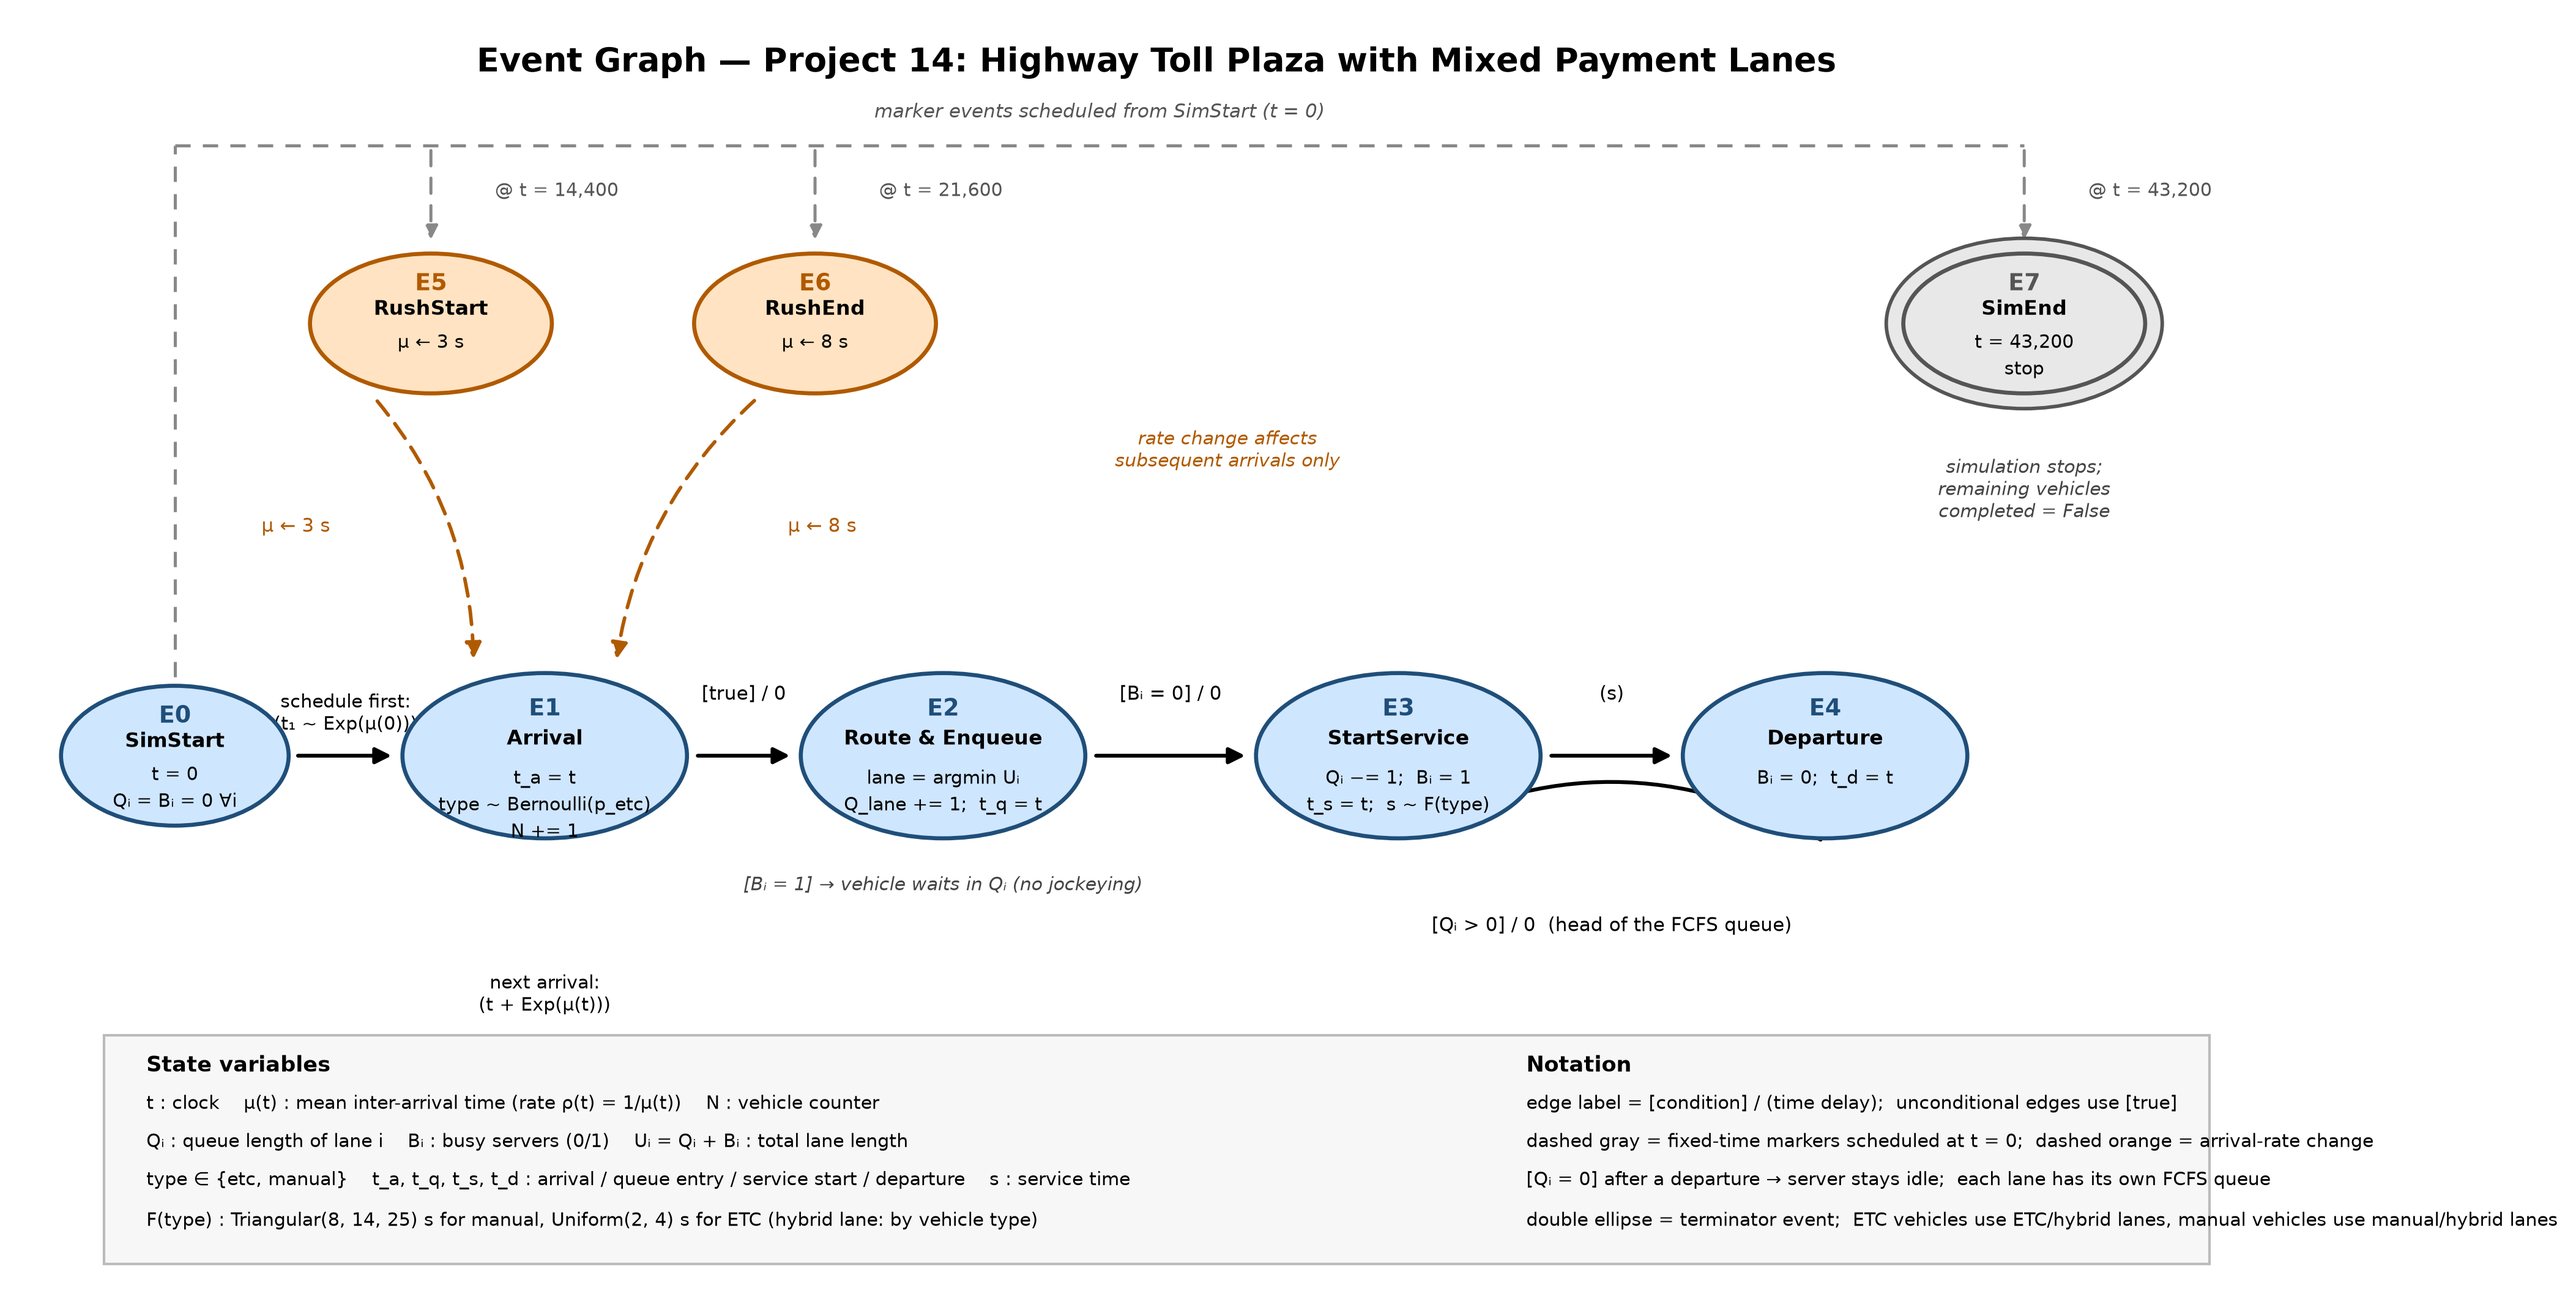
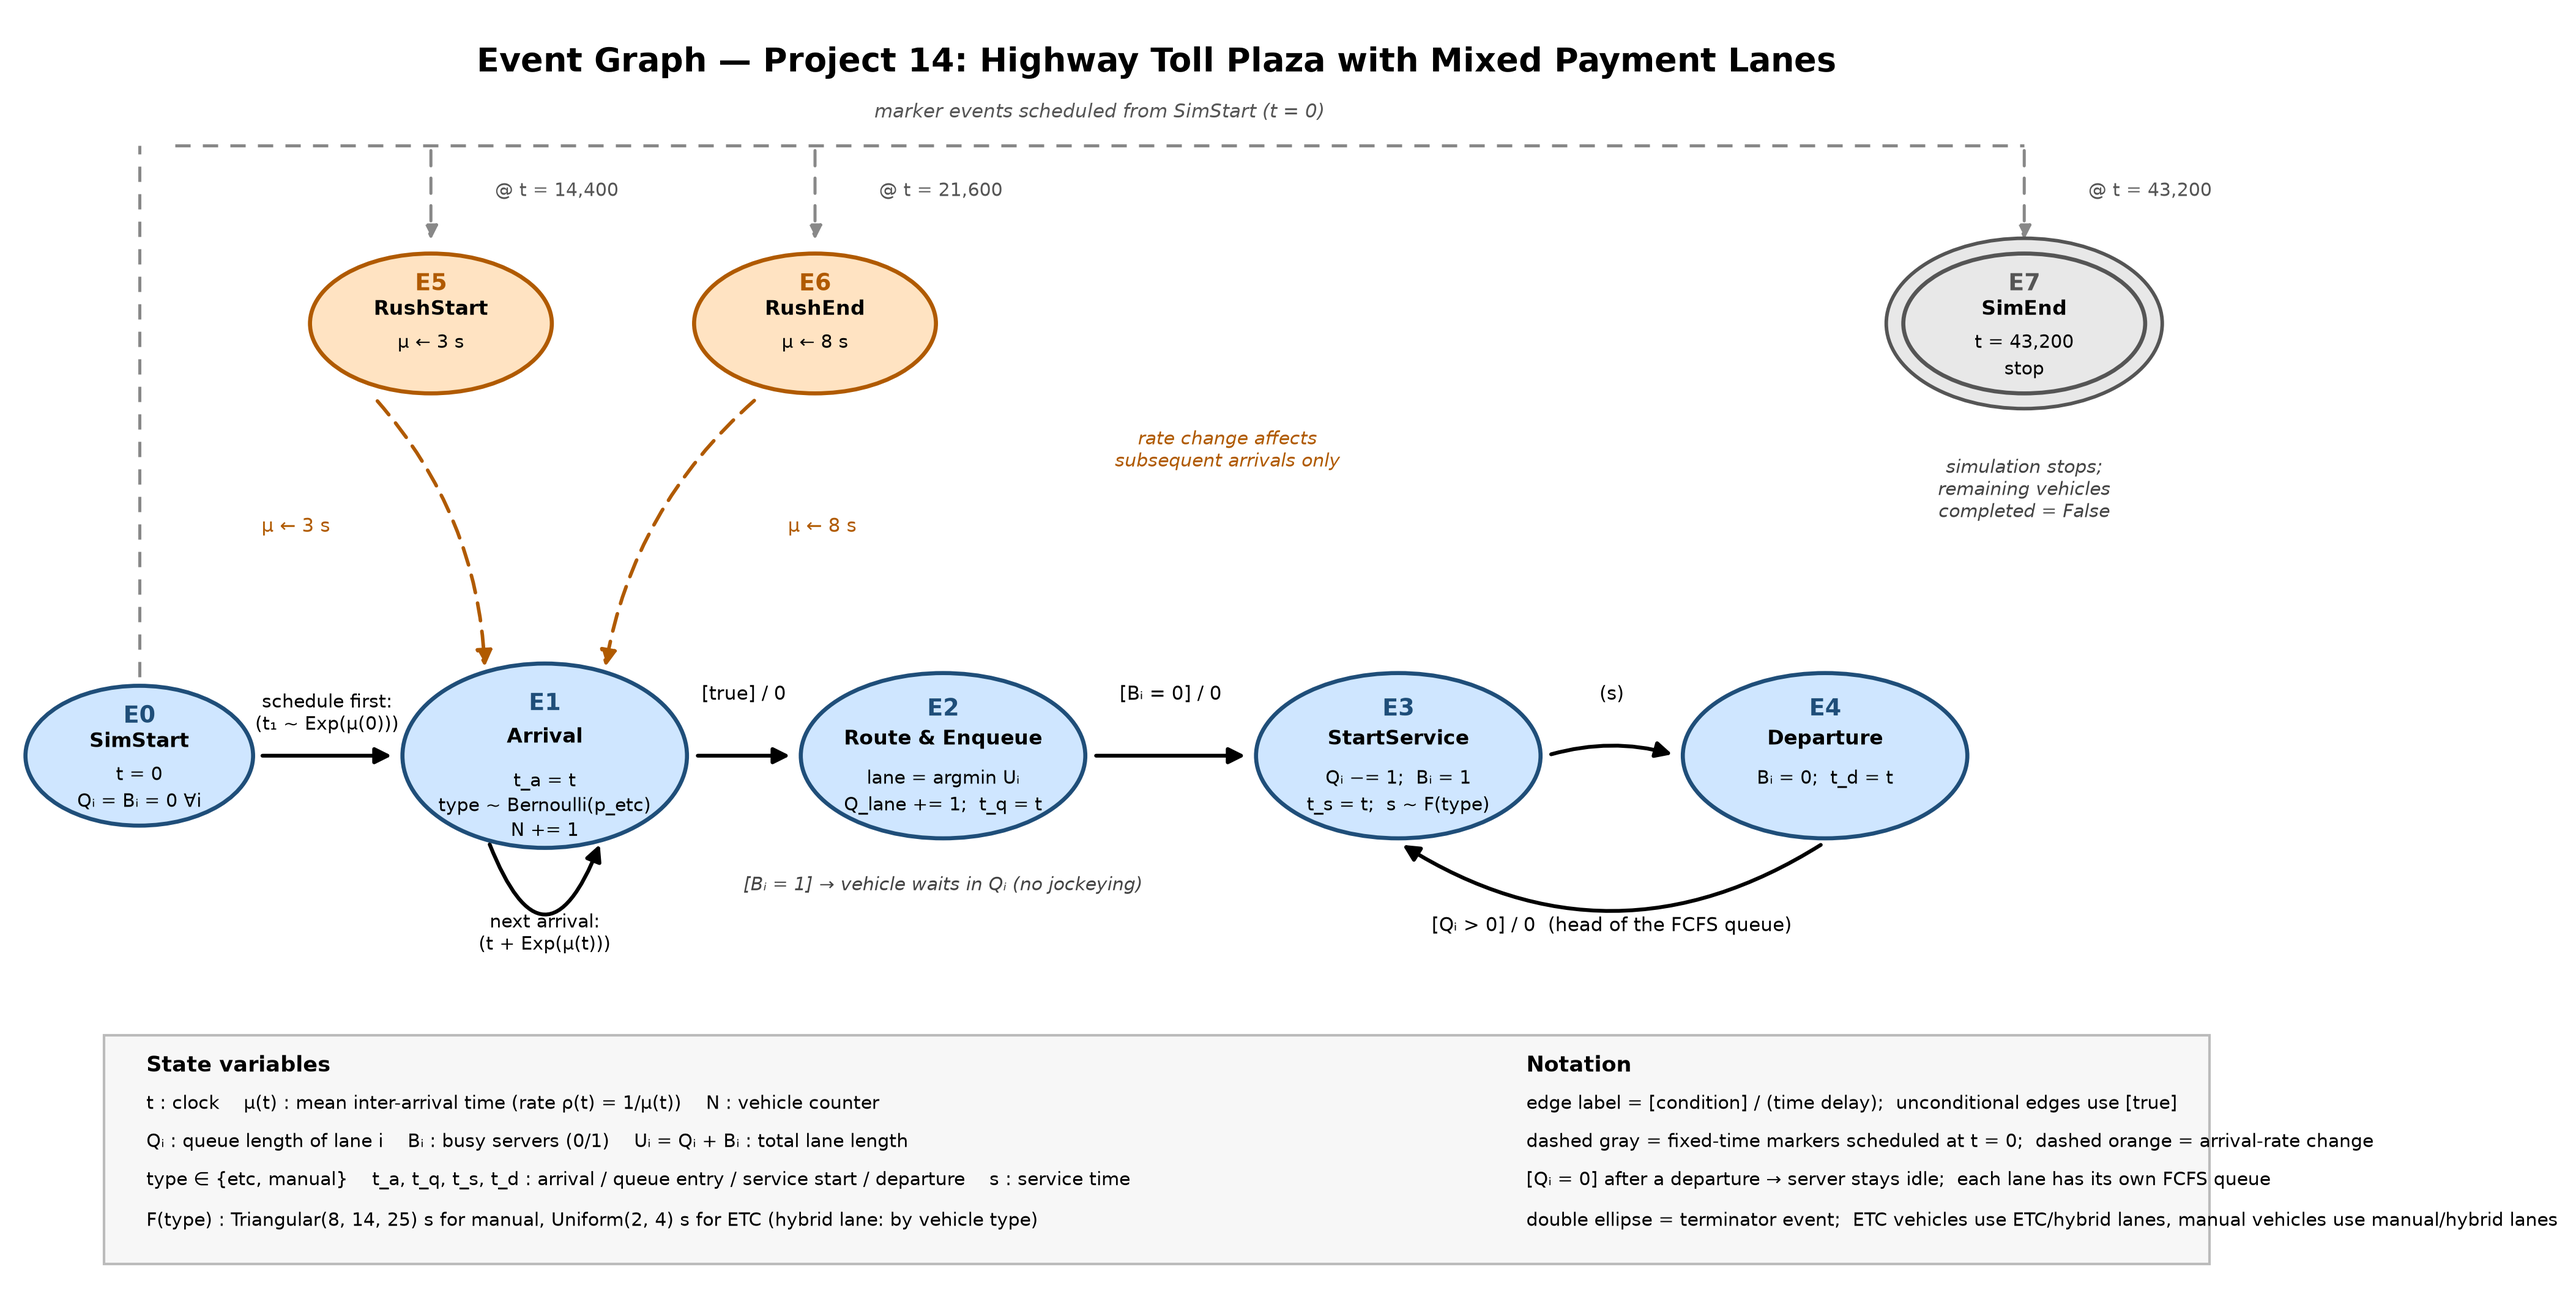
fix(docs): refine event graph layout and label spacing

diff --git a/_draw_event_graph.py b/_draw_event_graph.py
@@ -1,0 +1,178 @@
+# -*- coding: utf-8 -*-
+"""Render script for event_graph.png (300 DPI)."""
+
+import matplotlib
+matplotlib.use("Agg")
+import matplotlib.pyplot as plt
+from matplotlib.patches import Ellipse, FancyArrowPatch, Rectangle
+from matplotlib.lines import Line2D
+
+fig, ax = plt.subplots(figsize=(16, 9), dpi=300)
+ax.set_xlim(0, 160)
+ax.set_ylim(0, 100)
+ax.axis("off")
+
+# ----------------------------------------------------------------------
+# Palette
+# ----------------------------------------------------------------------
+MAIN_FILL, MAIN_EDGE = "#cfe6ff", "#1f4e79"   # flow events
+MARK_FILL, MARK_EDGE = "#ffe3c2", "#b05a00"   # rush markers
+END_FILL,  END_EDGE  = "#e8e8e8", "#555555"   # terminator
+BUS_COLOR = "#888888"
+FLOW_COLOR = "black"
+
+def node(x, y, w, h, code, name, lines, fill, edge, double=False, fs_code=9,
+         fs_name=8, fs_lines=7.2, gap=2.1):
+    """Draw an event node (ellipse) with code, name and state updates."""
+    if double:
+        ax.add_patch(Ellipse((x, y), w + 2.4, h + 2.4, facecolor=fill,
+                             edgecolor=edge, lw=1.4, zorder=3))
+    ax.add_patch(Ellipse((x, y), w, h, facecolor=fill, edgecolor=edge,
+                         lw=1.6, zorder=4))
+    ax.text(x, y + h * 0.28, code, ha="center", va="center",
+            fontsize=fs_code, fontweight="bold", color=edge, zorder=5)
+    ax.text(x, y + h * 0.10, name, ha="center", va="center",
+            fontsize=fs_name, fontweight="bold", zorder=5)
+    for k, ln in enumerate(lines):
+        ax.text(x, y - h * 0.14 - k * gap, ln, ha="center", va="center",
+                fontsize=fs_lines, zorder=5)
+
+def arrow(p1, p2, rad=0.0, color=FLOW_COLOR, ls="-", lw=1.5, ms=13):
+    ax.add_patch(FancyArrowPatch(p1, p2, arrowstyle="-|>",
+                                 mutation_scale=ms, lw=lw, color=color,
+                                 linestyle=ls,
+                                 connectionstyle=f"arc3,rad={rad}", zorder=2))
+
+def line(p1, p2, color=BUS_COLOR, ls=(0, (5, 4)), lw=1.2):
+    ax.add_line(Line2D([p1[0], p2[0]], [p1[1], p2[1]], color=color,
+                       linestyle=ls, lw=lw, zorder=1))
+
+# ----------------------------------------------------------------------
+# Title
+# ----------------------------------------------------------------------
+ax.text(80, 96.5, "Event Graph — Project 14: Highway Toll Plaza with Mixed Payment Lanes",
+        ha="center", va="center", fontsize=13, fontweight="bold")
+
+# ----------------------------------------------------------------------
+# Main flow row (y = 42)
+# ----------------------------------------------------------------------
+Y = 42
+node(8.5, Y, 16, 11, "E0", "SimStart", ["t = 0", "Qᵢ = Bᵢ = 0 ∀i"],
+     MAIN_FILL, MAIN_EDGE)
+node(37, Y, 20, 14.5, "E1", "Arrival",
+     ["t_a = t", "type ~ Bernoulli(p_etc)", "N += 1"], MAIN_FILL, MAIN_EDGE,
+     gap=1.95)
+node(65, Y, 20, 13, "E2", "Route & Enqueue",
+     ["lane = argmin Uᵢ", "Q_lane += 1;  t_q = t"], MAIN_FILL, MAIN_EDGE)
+node(97, Y, 20, 13, "E3", "StartService",
+     ["Qᵢ −= 1;  Bᵢ = 1", "t_s = t;  s ~ F(type)"], MAIN_FILL, MAIN_EDGE)
+node(127, Y, 20, 13, "E4", "Departure",
+     ["Bᵢ = 0;  t_d = t"], MAIN_FILL, MAIN_EDGE)
+
+# Top marker row (y = 76) + terminator
+node(29, 76, 17, 11, "E5", "RushStart", ["µ ← 3 s"], MARK_FILL, MARK_EDGE)
+node(56, 76, 17, 11, "E6", "RushEnd", ["µ ← 8 s"], MARK_FILL, MARK_EDGE)
+node(141, 76, 17, 11, "E7", "SimEnd", ["t = 43,200", "stop"],
+     END_FILL, END_EDGE, double=True)
+
+# ----------------------------------------------------------------------
+# Scheduling bus (dashed, from E0 at t = 0)
+# ----------------------------------------------------------------------
+line((8.5, 48.2), (8.5, 90))
+line((11, 90), (141, 90))
+for x in (29, 56, 141):
+    arrow((x, 90), (x, 82.2), color=BUS_COLOR, ls=(0, (5, 4)), lw=1.2, ms=11)
+ax.text(76, 92.6, "marker events scheduled from SimStart (t = 0)",
+        ha="center", va="center", fontsize=7.5, color="#555555", style="italic")
+ax.text(33.5, 86.4, "@ t = 14,400", ha="left", va="center", fontsize=7.2,
+        color="#555555")
+ax.text(60.5, 86.4, "@ t = 21,600", ha="left", va="center", fontsize=7.2,
+        color="#555555")
+ax.text(145.5, 86.4, "@ t = 43,200", ha="left", va="center", fontsize=7.2,
+        color="#555555")
+
+# ----------------------------------------------------------------------
+# Flow edges (main row)
+# ----------------------------------------------------------------------
+arrow((16.8, Y), (26.6, Y))
+ax.text(21.7, 45.3, "schedule first:\n(t₁ ~ Exp(µ(0)))", ha="center",
+        va="center", fontsize=7.2)
+
+arrow((47.4, Y), (54.6, Y))
+ax.text(51, 46.8, "[true] / 0", ha="center", va="center", fontsize=7.5)
+
+arrow((75.4, Y), (86.6, Y))
+ax.text(81, 46.8, "[Bᵢ = 0] / 0", ha="center", va="center", fontsize=7.5)
+
+arrow((107.4, Y), (116.6, Y), rad=-0.15)
+ax.text(112, 46.8, "(s)", ha="center", va="center", fontsize=7.5)
+
+# E4 -> E3 : service of the next FCFS vehicle (bows down, label right below)
+arrow((127, 35.2), (97, 35.2), rad=-0.32)
+ax.text(112, 28.6, "[Qᵢ > 0] / 0  (head of the FCFS queue)",
+        ha="center", va="center", fontsize=7.5)
+
+# E2 busy branch note
+ax.text(65, 31.8, "[Bᵢ = 1] → vehicle waits in Qᵢ (no jockeying)",
+        ha="center", va="center", fontsize=7.2, color="#444444", style="italic")
+
+# E1 self-loop (schedules the next arrival): leaves and re-enters the
+# bottom edge of the E1 ellipse, hanging below it
+arrow((33, 35.4), (41, 35.4), rad=1.3)
+ax.text(37, 28, "next arrival:\n(t + Exp(µ(t)))", ha="center", va="center",
+        fontsize=7.2)
+
+# ----------------------------------------------------------------------
+# Rate-change edges (dashed orange): E5/E6 -> E1
+# ----------------------------------------------------------------------
+arrow((25, 70.2), (32.8, 48.6), rad=-0.18, color=MARK_EDGE, ls=(0, (5, 3)), lw=1.4)
+ax.text(19.5, 60, "µ ← 3 s", ha="center", va="center", fontsize=7.5,
+        color=MARK_EDGE)
+arrow((52, 70.2), (41.2, 48.6), rad=0.18, color=MARK_EDGE, ls=(0, (5, 3)), lw=1.4)
+ax.text(56.5, 60, "µ ← 8 s", ha="center", va="center", fontsize=7.5,
+        color=MARK_EDGE)
+ax.text(85, 66, "rate change affects\nsubsequent arrivals only", ha="center",
+        va="center", fontsize=7.2, color=MARK_EDGE, style="italic")
+
+# E7 note
+ax.text(141, 65.5, "simulation stops;\nremaining vehicles\ncompleted = False",
+        ha="center", va="top", fontsize=7.2, color="#444444", style="italic")
+
+# ----------------------------------------------------------------------
+# Legend
+# ----------------------------------------------------------------------
+ax.add_patch(Rectangle((6, 2), 148, 18, facecolor="#f7f7f7",
+                       edgecolor="#bbbbbb", lw=1.0))
+ax.text(9, 17.6, "State variables", fontsize=8.5, fontweight="bold",
+        va="center")
+ax.text(9, 14.6,
+        "t : clock    µ(t) : mean inter-arrival time (rate ρ(t) = 1/µ(t))    "
+        "N : vehicle counter",
+        fontsize=7.2, va="center")
+ax.text(9, 11.6,
+        "Qᵢ : queue length of lane i    Bᵢ : busy servers (0/1)    "
+        "Uᵢ = Qᵢ + Bᵢ : total lane length",
+        fontsize=7.2, va="center")
+ax.text(9, 8.6,
+        "type ∈ {etc, manual}    t_a, t_q, t_s, t_d : arrival / queue entry / "
+        "service start / departure    s : service time",
+        fontsize=7.2, va="center")
+ax.text(9, 5.4,
+        "F(type) : Triangular(8, 14, 25) s for manual, Uniform(2, 4) s for ETC "
+        "(hybrid lane: by vehicle type)",
+        fontsize=7.2, va="center")
+
+ax.text(106, 17.6, "Notation", fontsize=8.5, fontweight="bold", va="center")
+ax.text(106, 14.6, "edge label = [condition] / (time delay);  "
+                   "unconditional edges use [true]", fontsize=7.2, va="center")
+ax.text(106, 11.6, "dashed gray = fixed-time markers scheduled at t = 0;  "
+                   "dashed orange = arrival-rate change", fontsize=7.2, va="center")
+ax.text(106, 8.6, "[Qᵢ = 0] after a departure → server stays idle;  "
+                  "each lane has its own FCFS queue", fontsize=7.2, va="center")
+ax.text(106, 5.4, "double ellipse = terminator event;  ETC vehicles use ETC/hybrid "
+                  "lanes, manual vehicles use manual/hybrid lanes",
+        fontsize=7.2, va="center")
+
+fig.savefig("event_graph.png", dpi=300, bbox_inches="tight",
+            facecolor="white")
+print("saved")
